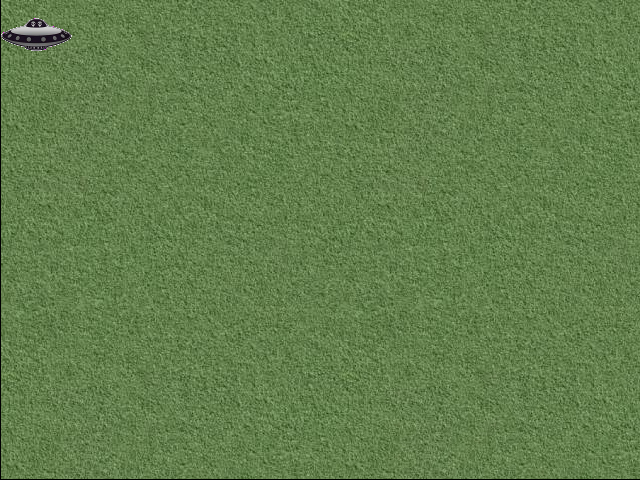
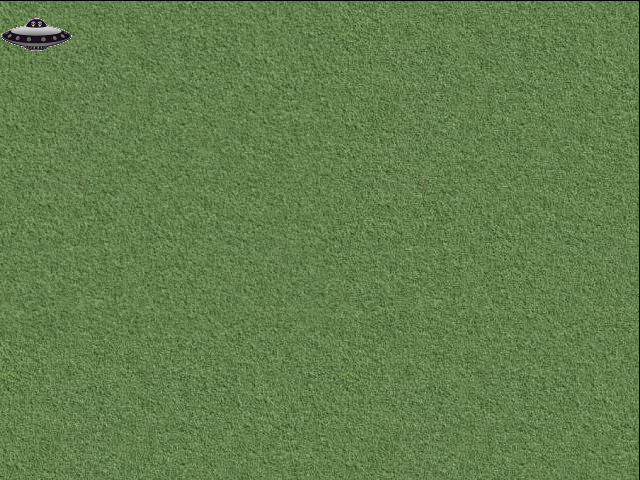
added ability to move in a larger scene, brought in camera and notion of screen coords

diff --git a/sun/lib/level.rb b/sun/lib/level.rb
@@ -42,7 +42,7 @@ end
 class Level
   attr_accessor :measurements, :line_segments, :triangles, :circles, :rectangles, :dynamic_elements
   @@CELL_SIZE = 10
-  def initialize
+  def initialize(game=nil)
     @space = SpaceWrapper.new
     @measurements = []
     @line_segments = []
@@ -52,7 +52,7 @@ class Level
     @dynamic_elements = []
     @static_hash = SpatialHash.new(@@CELL_SIZE)
     @dynamic_hash = SpatialHash.new(@@CELL_SIZE)
-    
+    @game = game
   end
 
   def add_line_segment(sx,sy, ex, ey)
@@ -99,13 +99,18 @@ class Level
   def draw_function_for(elem)
     #TODO move all drawing logic out of models in case we replace gosu
     #TODO maybe a gosu image manager
-    mapping = {Primitives::LineSegment => lambda {|screen, linesegment| draw_line_segment(screen, linesegment, ZOrder.static.value) },
+    mapping = {Primitives::LineSegment => lambda {|screen, linesegment|
+                 offset = @game.camera.offset
+                 draw_line_segment(screen, linesegment, ZOrder.static.value, offset)
+               },
                Player => lambda {|screen, player| player.draw(screen) },
                Enemy => lambda {|screen, enemy| enemy.draw(screen) },
                #TODO ugly, should this be here? not sure about design
                VectorFollower => lambda {|screen, vf|
                  d = 10
-                 draw_rectangle(screen, Primitives::Rectangle.new(vf.current_position, vf.current_position.plus([d,0]), vf.current_position.plus([d,d]), vf.current_position.plus([0,d])))}
+                 cp = vf.current_position.minus(@game.camera.offset)
+
+                 draw_rectangle(screen, Primitives::Rectangle.new(cp, cp.plus([d,0]), cp.plus([d,d]), cp.plus([0,d])))}
     }
     raise "Unknown draw function for #{elem.class}" unless mapping.has_key?(elem.class)
     mapping[elem.class]

diff --git a/sun/lib/player.rb b/sun/lib/player.rb
@@ -42,7 +42,9 @@ class Player
     @game.load_animation(self, "weapon", @weapon.image_path, 24, 24, false) #TODO hardcoded values
   end
 
-
+  def screen_coordinates(camera)
+    [camera.screen_width/2.0, camera.screen_height/2.0]
+  end
   def turn(direction)
     @direction = ((@direction + direction) % MAX_TURN_DEGREES)
   end
@@ -58,7 +60,8 @@ class Player
 
   def animation_position_by_name(name)
     raise "programmer error: unknown animation #{name}" unless name =~ /attack/ or name =~ /weapon/
-    @position.dup
+    screen_coordinates(@game.camera).dup
+    #@position.dup
   end
 
   #TODO likely to be duplicated
@@ -89,14 +92,9 @@ class Player
   #TODO clean this up
   include UtilityDrawing
   def draw(screen)
-#    @avatar.draw_rot(@position[0] , @position[1] , ZOrder.dynamic.value, @direction, 0.5, 0.5, 1, 1, transparency_color, :default)
-    @avatar.draw_rot(@position[0] , @position[1] , ZOrder.dynamic.value, @direction)
-   
-    #@avatar.draw_rot(@position[0] , @position[1] , ZOrder.dynamic.value, @direction, 0.5, 0.5, 1,1, transparency_color)
-#    draw_line_segment(screen, Primitives::LineSegment.new(@position, @position.plus([@radius, 0])), ZOrder.dynamic.value)
-#    draw_line_segment(screen, Primitives::LineSegment.new(@position, @position.plus([0, @radius])), ZOrder.dynamic.value)
-#    draw_line_segment(screen, Primitives::LineSegment.new(@position, @position.plus([0, -@radius])), ZOrder.dynamic.value)
-#    draw_line_segment(screen, Primitives::LineSegment.new(@position, @position.plus([-@radius,0])), ZOrder.dynamic.value)
+    coords = screen_coordinates(@game.camera)
+    @avatar.draw_rot(coords[0] , coords[1] , ZOrder.dynamic.value, @direction)
+    
 
   end
   def to_s

diff --git a/sun/lib/game.rb b/sun/lib/game.rb
@@ -17,6 +17,7 @@ require 'weapon'
 require 'player'
 require 'enemy'
 require 'clock'
+require 'camera'
 require 'heads_up_display'
 require 'collision_responder'
 require 'way_finding'
@@ -32,16 +33,18 @@ require 'death_event'
 class Game
 
   attr_accessor :player, :clock, :hud, :animation_manager, :turn_speed,
-    :movement_distance, :path_following_manager, :enemy, :events
+    :movement_distance, :path_following_manager, :enemy, :events, :camera,
+    :screen
 
   def initialize(deps = {})
     dependencies = {:framerate => 60}.merge(deps)
     @screen = Screen.new(self, dependencies[:width], dependencies[:height])
     @player_loader = PlayerLoader.new(self)
-    @level_loader = LevelLoader.new
+    @level_loader = LevelLoader.new(self)
     @collision_responder = CollisionResponder.new(self)
     @animation_manager = AnimationManager.new(self)
     @path_following_manager = PathFollowingManager.new(self)
+    @camera = Camera.new(self)
     @keys = {}
     @events = []
     @active = true
@@ -241,6 +244,10 @@ class Game
     while @clock.current_frame_too_fast? do
       # TODO NOOP, could sleep to free up CPU cycles
     end
+  end
+
+  def camera_position
+    @camera.position
   end
 
   def active?

diff --git a/sun/features/step_definitions/camera_steps.rb b/sun/features/step_definitions/camera_steps.rb
@@ -1,0 +1,29 @@
+
+Given /^I create a game camera tracking the player$/ do
+  @camera = Camera.new(@game)
+  @game.camera = @camera
+end
+Then /^the camera should be centered at (\d+), (\d+)$/ do |arg1, arg2|
+  @game.camera_position.should == [arg1.to_i, arg2.to_i]
+end
+
+Then /^the player screen coordinates should be (\d+), (\d+)$/ do |arg1, arg2|
+  @player.screen_coordinates(@camera).should be_within_epsilon_of([arg1.to_f, arg2.to_f])
+end
+
+Then /^the enemy screen coordinates should be (\d+),(\d+)$/ do |arg1, arg2|
+  @enemy.screen_coordinates(@camera).should be_within_epsilon_of([arg1.to_f, arg2.to_f])
+end
+
+
+Then /^the camera offset should be (\d+),(\d+)$/ do |arg1, arg2|
+  @camera.offset.should be_within_epsilon_of([arg1.to_f, arg2.to_f])
+end
+
+Then /^the camera offset should be \-(\d+),\-(\d+)$/ do |arg1, arg2|
+  @camera.offset.should be_within_epsilon_of([arg1.to_f * -1, arg2.to_f * -1])
+end
+
+Then /^the enemy screen coordinates should be (\d+),\-(\d+)$/ do |arg1, arg2|
+  @enemy.screen_coordinates(@camera).should be_within_epsilon_of([arg1.to_f, arg2.to_f * -1])
+end

diff --git a/sun/lib/enemy.rb b/sun/lib/enemy.rb
@@ -22,11 +22,12 @@ class Enemy
   #TODO clean this up
   include UtilityDrawing
   def draw(screen)
-    @enemy_avatar.draw_rot(@position[0] , @position[1] , ZOrder.dynamic.value, @direction)
-#    draw_line_segment(screen, Primitives::LineSegment.new(@position, @position.plus([@radius, 0])), ZOrder.dynamic.value)
-#    draw_line_segment(screen, Primitives::LineSegment.new(@position, @position.plus([0, @radius])), ZOrder.dynamic.value)
-#    draw_line_segment(screen, Primitives::LineSegment.new(@position, @position.plus([0, -@radius])), ZOrder.dynamic.value)
-#    draw_line_segment(screen, Primitives::LineSegment.new(@position, @position.plus([-@radius,0])), ZOrder.dynamic.value)
+    coords = screen_coordinates(@game.camera)
+    @enemy_avatar.draw_rot(coords[0] , coords[1] , ZOrder.dynamic.value, @direction)
+  end
+
+  def screen_coordinates(camera)
+    @position.minus(camera.offset)
   end
 
   def collision_type

diff --git a/sun/lib/utility_drawing.rb b/sun/lib/utility_drawing.rb
@@ -10,8 +10,12 @@ module TransparencyUtils
 end
 module UtilityDrawing
   include TransparencyUtils
-  def draw_line_segment(screen, ls, zorder = ZOrder.dynamic.value)
-    screen.draw_line(ls.sx, ls.sy, Gosu::Color::BLACK,ls.ex, ls.ey, Gosu::Color::BLACK, zorder  )
+  def draw_line_segment(screen, ls, zorder = ZOrder.dynamic.value, offset=[0,0])
+    
+    start = ls.p1.minus(offset)
+    done = ls.p2.minus(offset)
+
+    screen.draw_line(start[0], start[1], Gosu::Color::BLACK, done[0], done[1], Gosu::Color::BLACK, zorder  )
   end
 
   def draw_animation_at(screen, position, animation)

diff --git a/sun/features/step_definitions/game_steps.rb b/sun/features/step_definitions/game_steps.rb
@@ -2,7 +2,7 @@
 
 Given /^I load the game on level "([^"]*)" with screen size (\d+), (\d+)$/ do |level_to_load, width, height|
   @game = Game.new({:width => width.to_i, :height => height.to_i})
-  @game.load_level("test-data/levels/#{level_to_load}/#{level_to_load}.yml")
+  @level = @game.load_level("test-data/levels/#{level_to_load}/#{level_to_load}.yml")
 end
 
 Given /^I set the screen size to (\d+),(\d+)$/ do |width, height|

diff --git a/sun/lib/screen.rb b/sun/lib/screen.rb
@@ -8,6 +8,9 @@ include Glu
 require 'gosu'
 require 'devil/gosu'
 class GameWindow < Gosu::Window
+  def width; @w; end
+  def height; @h; end
+
   def initialize(game, width, height)
     super width, height, false
     @w = width
@@ -52,6 +55,8 @@ class Screen
     @window = GameWindow.new(game, width, height)
 
   end
+  def width; @window.width; end
+  def height; @window.height; end
 
   def draw
     @window.draw

diff --git a/sun/lib/camera.rb b/sun/lib/camera.rb
@@ -1,0 +1,23 @@
+# To change this template, choose Tools | Templates
+# and open the template in the editor.
+
+class Camera
+  def initialize(game)
+    @game = game
+  end
+
+  def screen_width
+    @game.screen.width
+  end
+  def screen_height
+    @game.screen.height
+  end
+
+  def offset
+    position.minus([screen_width/2.0, screen_height/2.0])
+  end
+
+  def position
+    @game.player.position
+  end
+end

diff --git a/sun/lib/loaders/level_loader.rb b/sun/lib/loaders/level_loader.rb
@@ -3,12 +3,12 @@
 require 'yaml'
 
 class LevelLoader
-  def initialize
-    
+  def initialize(game = nil)
+    @game = game
   end
 
   def load_level(which_level)
-    level = Level.new
+    level = Level.new(@game)
     data = YAML.load_file(which_level)
     level.measurements = [data["measurements"]["width"].to_i,data["measurements"]["height"].to_i]
     data["line_segments"].each do |lineseg|

diff --git a/sun/lib/weapon.rb b/sun/lib/weapon.rb
@@ -27,7 +27,7 @@ class Weapon
   end
   #TODO bad fit, this shouldn't have to care about drawing, things are not being composed correctly
   def draw
-
+  
     # puts "draw weapon based on frame, swing start, player offset etc"
   end
 

diff --git a/sun/lib/animation_manager.rb b/sun/lib/animation_manager.rb
@@ -53,6 +53,7 @@ class AnimationManager
   def draw(screen)
     visit do |entity, name, animation|
       position = position_for(entity, name)
+      
       draw_animation_at(screen, position, animation)
     end
   end
